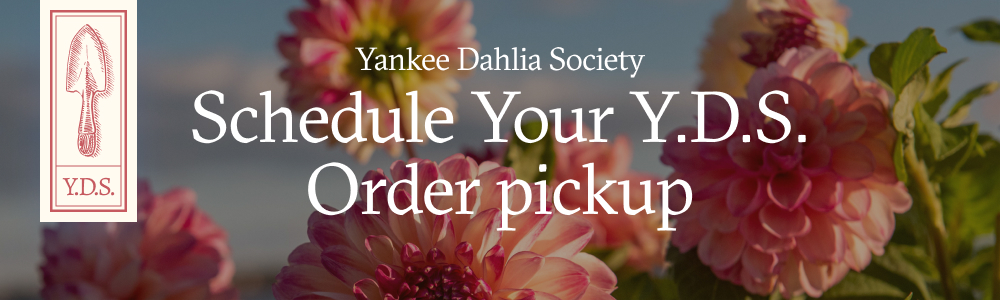
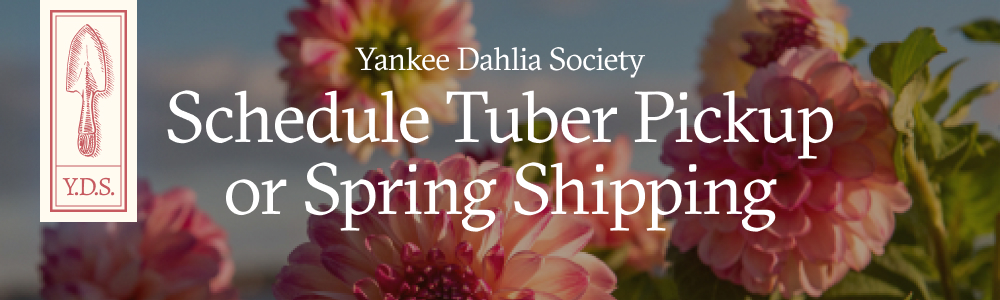
updating email text and header

diff --git a/202201/20220121_tuber-pickup/20220121_tuber-pickup.html b/202201/20220121_tuber-pickup/20220121_tuber-pickup.html
@@ -215,7 +215,7 @@
                     mc:edit="preheader_leftcol_content"
                     class="preheader__text"
                   >
-                    <p>Schedule Your Y.D.S. Tuber Pickup</p>
+                    <p>Schedule Tuber Pickup or Spring Shipping</p>
                   </div>
                 </td>
                 <td>
@@ -229,7 +229,7 @@
                   <img
                     class="header__image"
                     width="100%"
-                    src="20220121_tuber-pickup.jpg"
+                    src="https://johnthedesigner.github.io/yds-email/202201/20220121_tuber-pickup/20220121_tuber-pickup.jpg"
                     alt="Newsletter Header"
                   />
                 </td>
@@ -297,9 +297,14 @@
                                 </li>
                               </ul>
                               <p>
+                                We can also ship your order to you in the Spring
+                                when weather allows. Shipping fee will be
+                                calculated and billed separately.
+                              </p>
+                              <p>
                                 <a
                                   href="https://www.signupgenius.com/go/10C0C44AFA82DA5FAC16-20221"
-                                  >Pick Up at Meeting (3/6/22 or 5/1/22)</a
+                                  >Pick Up at Meeting or Spring Shipping</a
                                 >
                               </p>
                               <p class="signature">– Misty &amp; Carol</p>
